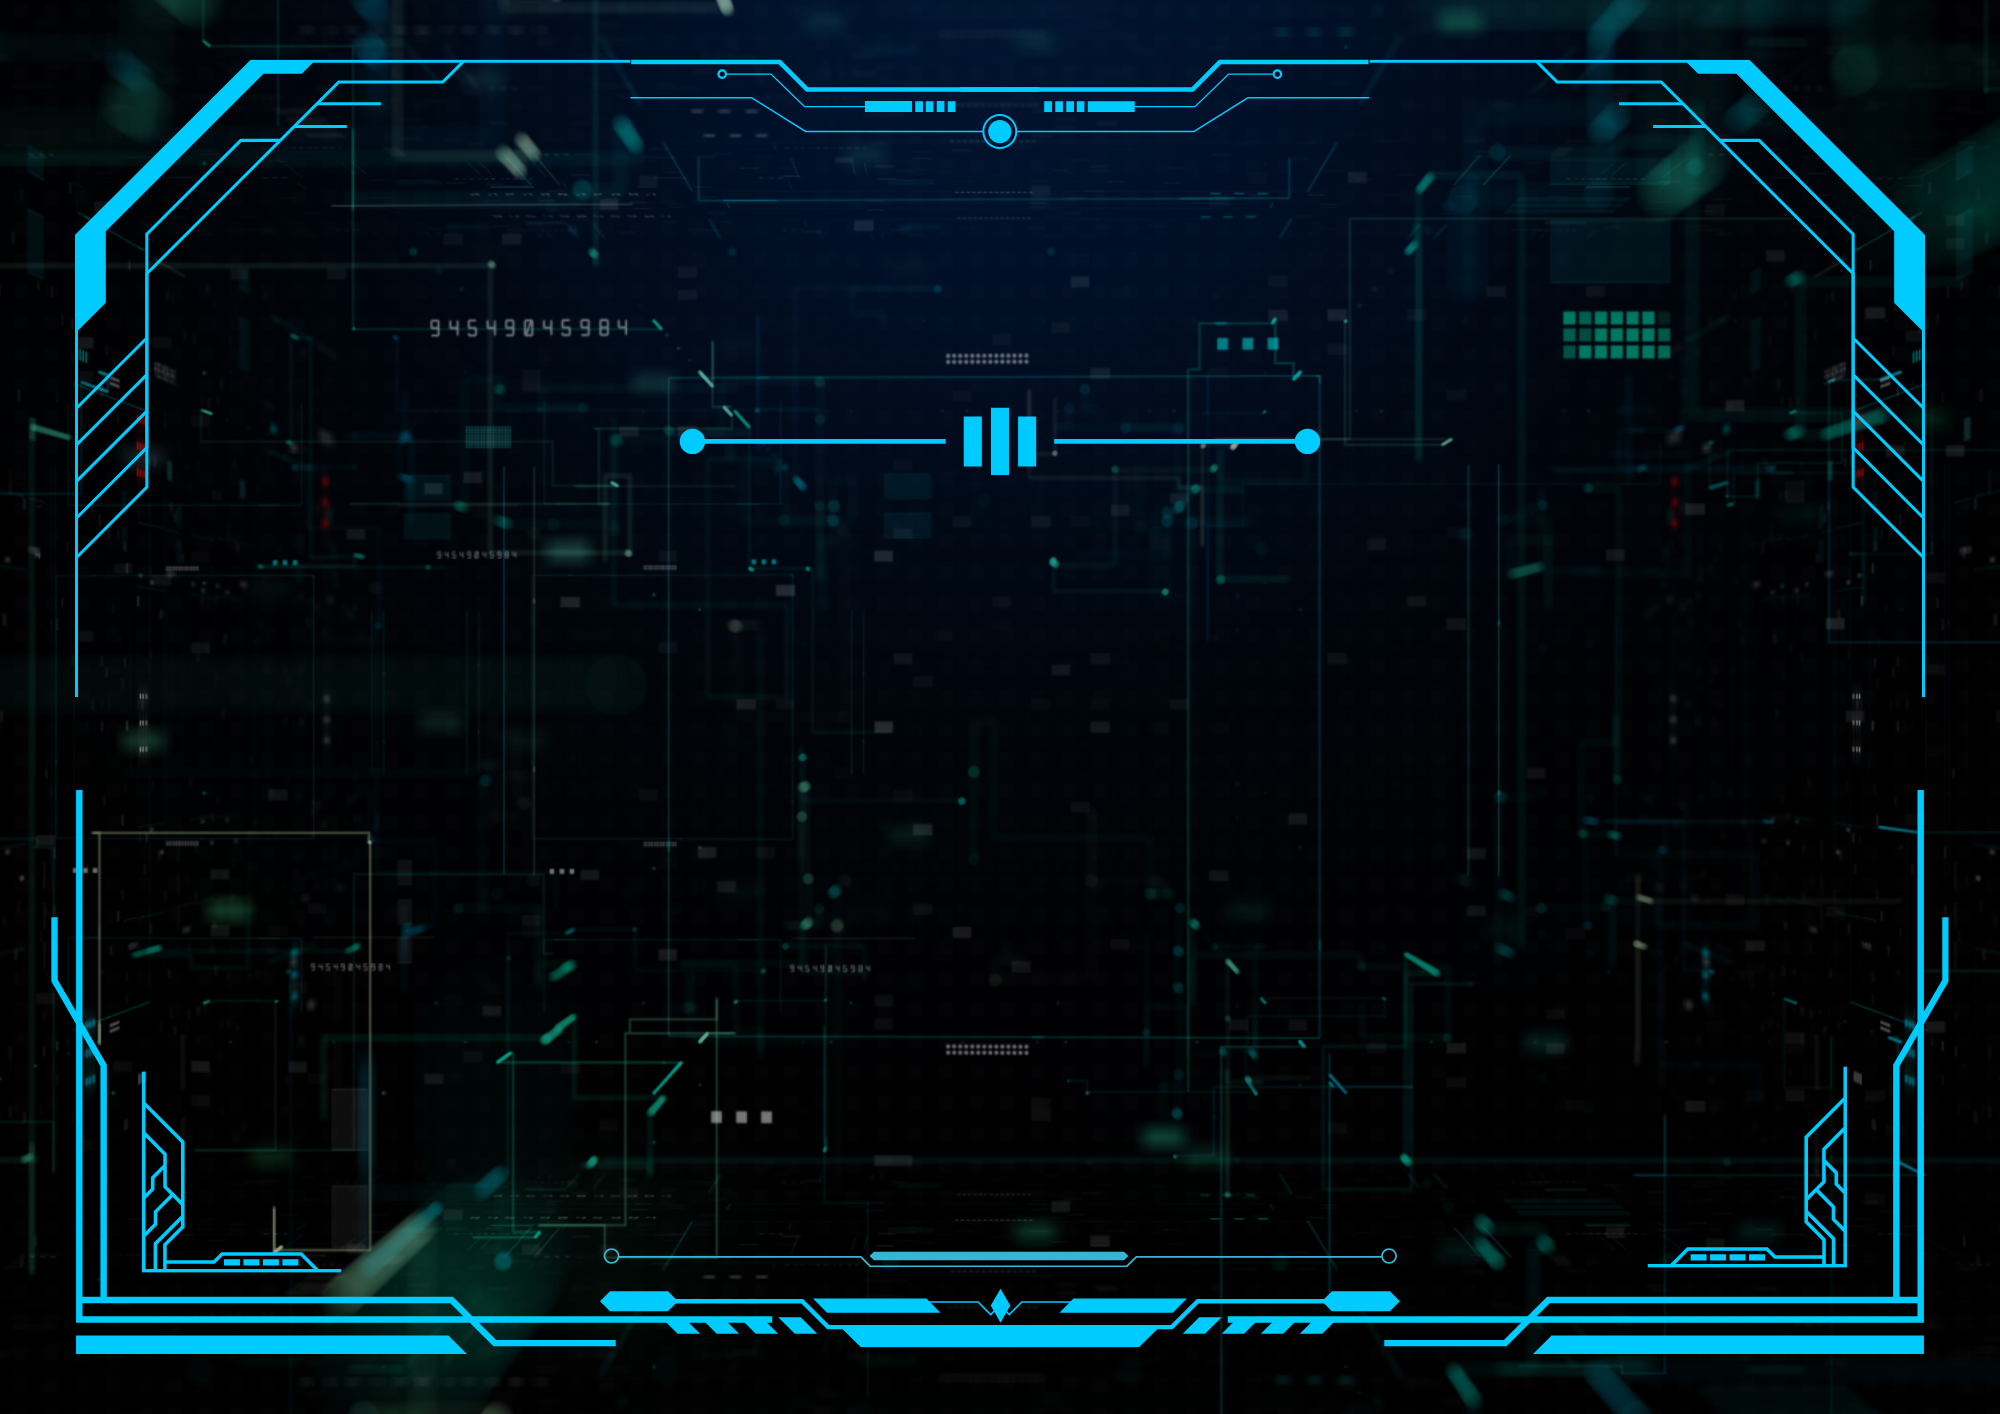
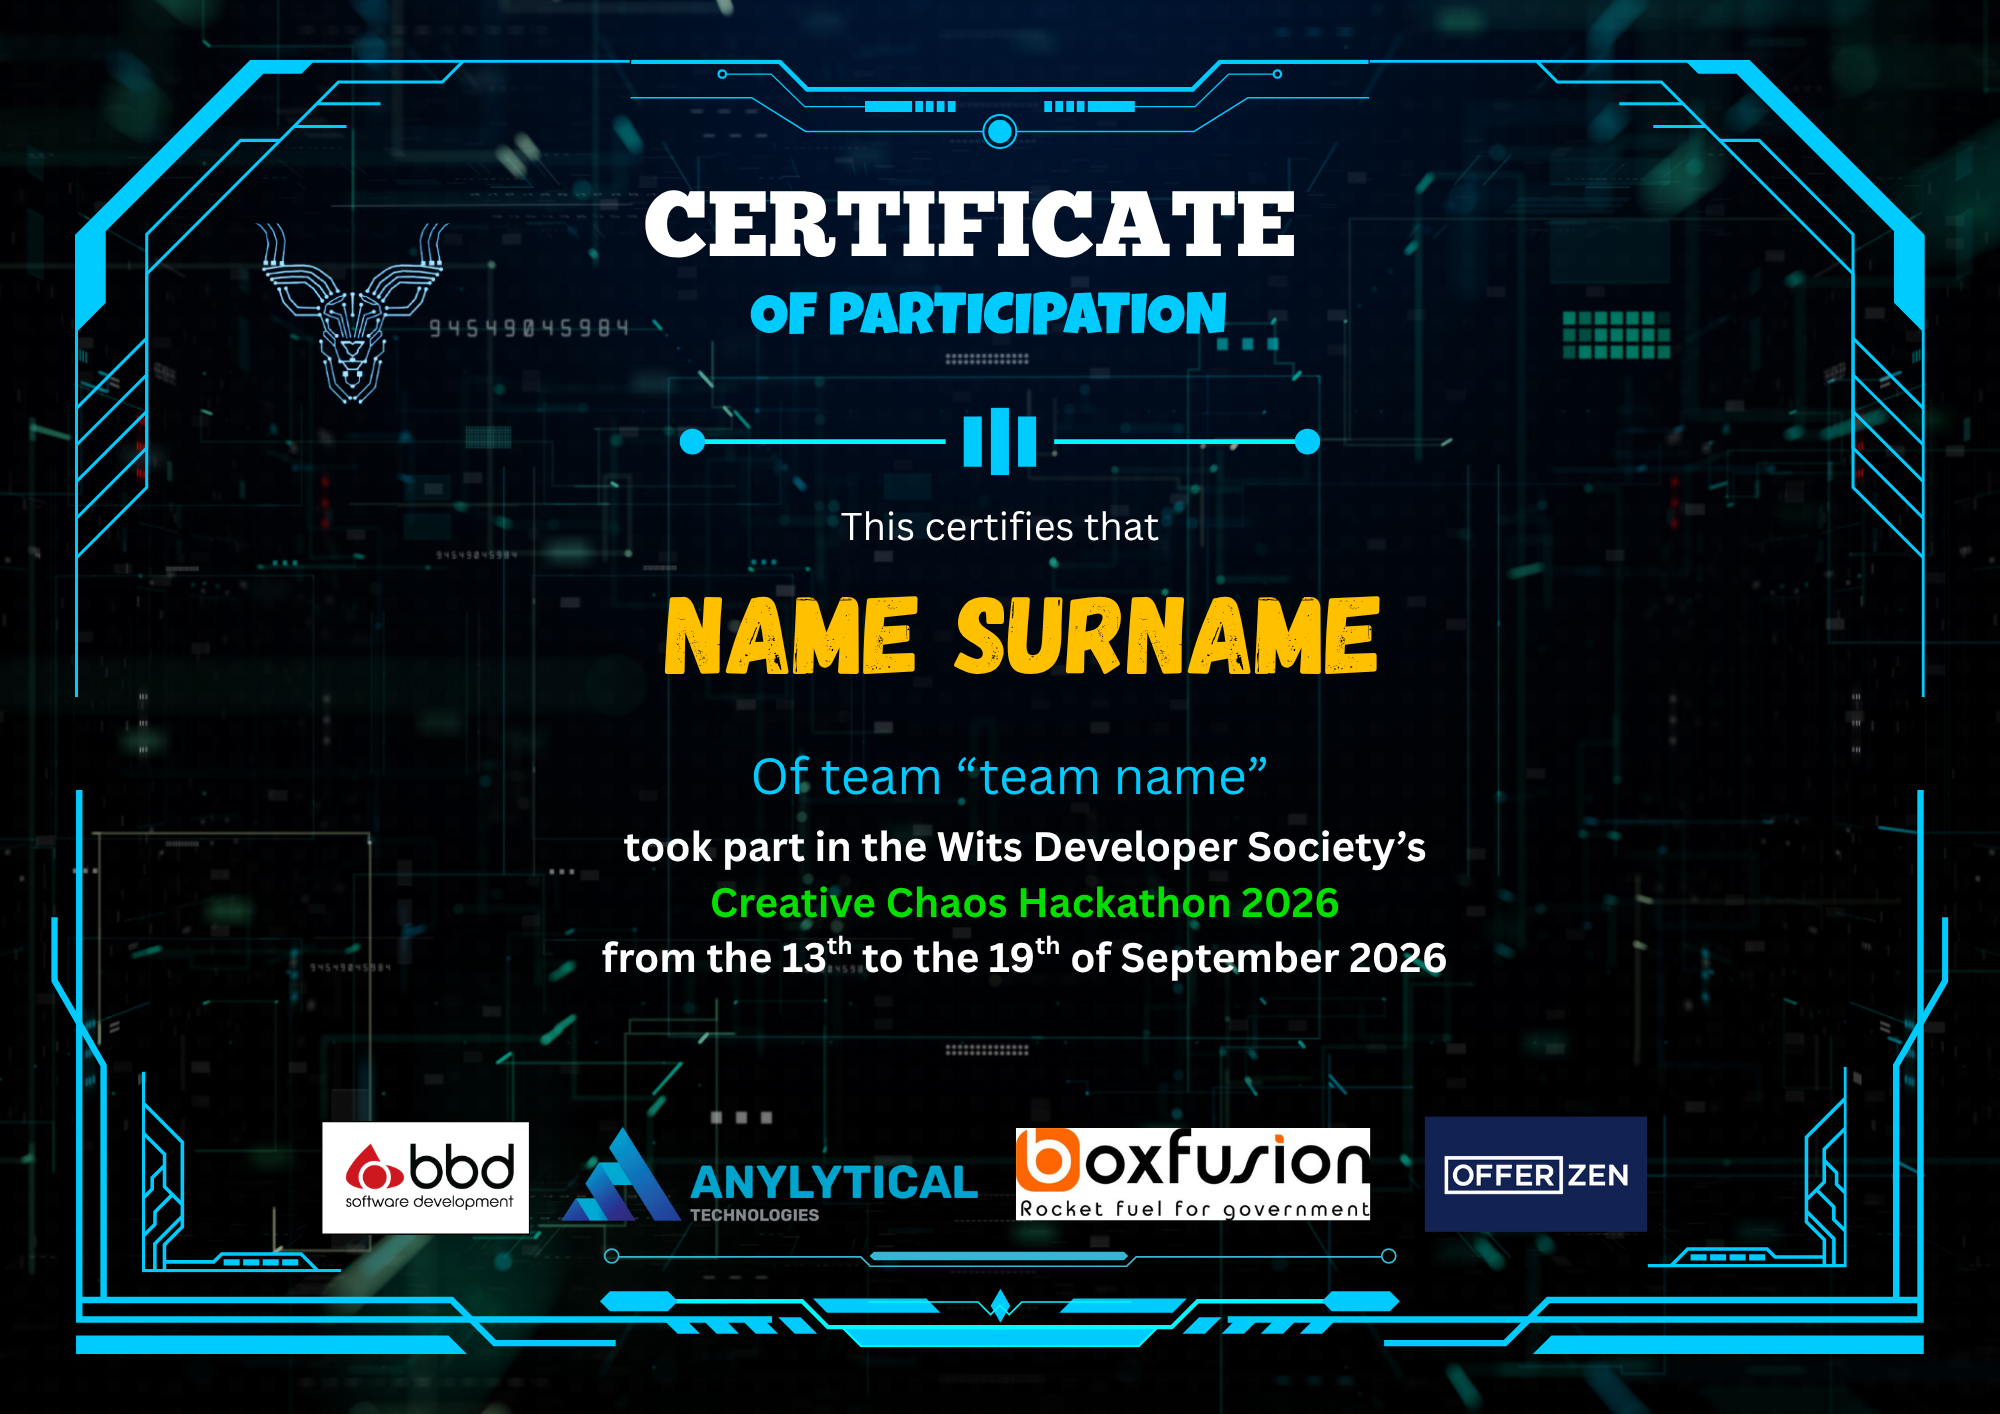
Switch certificate to the new Canva template, overlay real name/team
The new design bakes the whole layout (headline, sponsor row, seal, body
copy) into a single flat PNG with "NAME SURNAME" and "team name" as
placeholder text. Instead of redrawing the layout, we now just paint over
those two spots and draw the real participant name and team name in the
same position/size, keeping everything else pixel-identical to the
template. Long names/team names auto-shrink to fit so nothing overflows.

Tier-based accent coloring on the name (gold/silver/bronze for finalists,
volt for top-10, orange for standard participation) is preserved; the
"CERTIFICATE OF PARTICIPATION" wording itself is now static since the new
template has no room for per-tier subtitle text.

Claude-Session: https://claude.ai/code/session_017X6Dri8x2UtpK7z4zEyKsA

diff --git a/src/lib/certificate.ts b/src/lib/certificate.ts
@@ -106,6 +106,19 @@ function pt(imgX: number, imgY: number) {
   return { x: imgX * SCALE, y: PAGE_H - imgY * SCALE };
 }
 
+// The two placeholder fields baked into the template ("NAME SURNAME" and
+// "team name") measured on the 2000x1414 template PNG (image-space px).
+// ERASE covers the placeholder text (plus a small margin) so it can be
+// painted over before the real value is drawn in the same spot.
+const NAME_ERASE = { x0: 600, y0: 560, x1: 1450, y1: 700 };
+const NAME_CENTER_X = 1022;
+const NAME_BASELINE_Y = 668;
+const TEAM_ERASE = { x0: 650, y0: 745, x1: 1370, y1: 797 };
+const TEAM_CENTER_X = 1010;
+const TEAM_BASELINE_Y = 790;
+// Sampled from the template's background right around both placeholders.
+const ERASE_FILL = rgb(0 / 255, 5 / 255, 11 / 255);
+
 export async function renderCertificatePdf(
   person: Person,
   team: Team | null,
@@ -119,211 +132,61 @@ export async function renderCertificatePdf(
   page.drawImage(bg, { x: 0, y: 0, width: PAGE_W, height: PAGE_H });
 
   const chakraBold = await doc.embedFont(readPublic("fonts", "ChakraPetch-Bold.ttf"), { subset: true });
-  const chakraSemi = await doc.embedFont(readPublic("fonts", "ChakraPetch-SemiBold.ttf"), { subset: true });
   // Rajdhani's glyph tables corrupt under pdf-lib's subsetter (multi-script font) — embed in full.
-  const rajMed = await doc.embedFont(readPublic("fonts", "Rajdhani-Medium.ttf"), { subset: false });
   const rajSemi = await doc.embedFont(readPublic("fonts", "Rajdhani-SemiBold.ttf"), { subset: false });
 
-  const white = hexToRgb(HEX.white);
-  const muted = hexToRgb(HEX.muted);
   const cyan = hexToRgb(HEX.cyan);
   const accent = hexToRgb(tier.accentHex);
 
-  // ---------- header: Wits Developer Society (left) + event mark (right) ----------
-  try {
-    const logoBytes = readPublic("logo-icon.png");
-    const logo = await doc.embedPng(logoBytes);
-    // chip in image-space px, converted to pt at draw time.
-    // Base span was imgX 90-210, imgY 60-180 (120x120, centered at 150,120);
-    // scaled 1.2x (144x144, half-size 72) and shifted 3 line-heights (66px) down.
-    const chipTopLeft = pt(78, 114);
-    const chipBottomRight = pt(222, 258);
-    const chipW = chipBottomRight.x - chipTopLeft.x;
-    const chipH = chipTopLeft.y - chipBottomRight.y;
-    page.drawRectangle({ x: chipTopLeft.x, y: chipBottomRight.y, width: chipW, height: chipH, color: white });
-    const iconPad = chipW * 0.16;
-    const logoDim = logo.scale((chipW - iconPad * 2) / logo.width);
-    page.drawImage(logo, {
-      x: chipTopLeft.x + (chipW - logoDim.width) / 2,
-      y: chipBottomRight.y + (chipH - logoDim.height) / 2,
-      width: logoDim.width,
-      height: logoDim.height,
-    });
-    drawText(page, "WITS DEVELOPER SOCIETY", pt(232, 175), 12.5, chakraSemi, white);
-    drawTracked(page, "ORGANIZED BY", pt(232, 197), 9, rajSemi, cyan, 1.2);
-  } catch {
-    /* logo optional */
-  }
-  drawTextRight(page, "CREATIVE CHAOS HACKATHON 2026", pt(1890, 100), 12, chakraSemi, white);
-  drawTextRight(page, "FINALS DAY · MSL", pt(1890, 122), 9.5, rajSemi, muted);
+  // ---------- name ----------
+  eraseImgRect(page, NAME_ERASE);
+  const namePt = pt(NAME_CENTER_X, NAME_BASELINE_Y);
+  const nameMaxWidthPt = (NAME_ERASE.x1 - NAME_ERASE.x0) * SCALE * 0.94;
+  drawFitCentered(page, person.full_name.toUpperCase(), namePt.x, namePt.y, 31.5, chakraBold, accent, nameMaxWidthPt);
 
-  // ---------- headline ----------
-  const certer = pt(1000, 250);
-  drawTrackedCentered(page, "CERTIFICATE", certer.x, certer.y, 35.5, chakraBold, white, 1.5);
-  const suber = pt(1000, 345);
-  drawTrackedCentered(page, tier.subtitle, suber.x, suber.y, 16.5, chakraSemi, cyan, 4);
-
-  // ---------- body ----------
-  const lead = pt(1000, 515);
-  centerText(page, "This certifies that", lead.x, lead.y, 14, rajMed, muted);
-
-  const namePt = pt(1000, 600);
-  centerText(page, person.full_name.toUpperCase(), namePt.x, namePt.y, 31.5, chakraBold, accent);
-
-  let cursorImgY = 655;
+  // ---------- team ----------
+  eraseImgRect(page, TEAM_ERASE);
   if (team) {
-    const teamPt = pt(1000, cursorImgY);
-    centerText(page, `of team “${team.name}”`, teamPt.x, teamPt.y, 14.5, rajSemi, cyan);
-    cursorImgY += 55;
-  } else {
-    cursorImgY += 10;
-  }
-
-  const bodySentence =
-    person.role === "participant"
-      ? `took part in the Creative Chaos Hackathon 2026 from the 13th to the 19th of September 2026, ${tier.resultLine}.`
-      : `${tier.resultLine} at the Creative Chaos Hackathon 2026, held from the 13th to the 19th of September 2026.`;
-  cursorImgY = wrapCentered(page, bodySentence, 1000, cursorImgY, 620, 13, rajMed, muted, 22);
-
-  // ---------- seal ----------
-  const sealCenterImgY = 890;
-  const sealCenter = pt(1000, sealCenterImgY);
-  const sealR = 30;
-  page.drawCircle({ x: sealCenter.x, y: sealCenter.y, size: sealR, borderColor: cyan, borderWidth: 1, borderOpacity: 0.4 });
-  page.drawCircle({ x: sealCenter.x, y: sealCenter.y, size: sealR - 8, borderColor: cyan, borderWidth: 0.6, borderOpacity: 0.25 });
-  try {
-    const kudu = await doc.embedPng(readPublic("logo-icon.png"));
-    const badgeR = 24;
-    page.drawCircle({ x: sealCenter.x, y: sealCenter.y, size: badgeR, color: white });
-    const kd = kudu.scale((badgeR * 1.5) / kudu.width);
-    page.drawImage(kudu, { x: sealCenter.x - kd.width / 2, y: sealCenter.y - kd.height / 2, width: kd.width, height: kd.height });
-  } catch {
-    /* optional */
-  }
-  const captionPt = pt(1000, 1000);
-  drawTracked(
-    page,
-    "WITS DEVELOPER SOCIETY × CREATIVE CHAOS 2026 ORGANIZING COMMITTEE",
-    { x: captionPt.x - trackedWidth("WITS DEVELOPER SOCIETY × CREATIVE CHAOS 2026 ORGANIZING COMMITTEE", 10, chakraSemi, 0.6) / 2, y: captionPt.y },
-    10,
-    chakraSemi,
-    white,
-    0.6
-  );
-
-  // ---------- sponsors ----------
-  const labelPt = pt(1000, 1045);
-  drawTracked(
-    page,
-    "WITH THANKS TO OUR SPONSORS",
-    { x: labelPt.x - trackedWidth("WITH THANKS TO OUR SPONSORS", 10.5, chakraSemi, 1.2) / 2, y: labelPt.y },
-    10.5,
-    chakraSemi,
-    muted,
-    1.2
-  );
-
-  const sponsorFiles: { file: string; kind: "png" | "jpg" }[] = [
-    { file: "sponsors/bbd.png", kind: "png" },
-    { file: "sponsors/boxfusion.png", kind: "png" },
-    { file: "sponsors/offerzen.jpg", kind: "jpg" },
-    { file: "sponsors/enactus.png", kind: "png" },
-  ];
-  const targetH = 30;
-  const gap = 22;
-  const chipPad = 14;
-  const embedded: { img: any; w: number; h: number }[] = [];
-  for (const s of sponsorFiles) {
-    try {
-      const bytes = readPublic(s.file);
-      const img = s.kind === "png" ? await doc.embedPng(bytes) : await doc.embedJpg(bytes);
-      const scale = targetH / img.height;
-      embedded.push({ img, w: img.width * scale, h: targetH });
-    } catch {
-      /* skip missing sponsor asset */
-    }
-  }
-  const totalW = embedded.reduce((s, e) => s + e.w + chipPad * 2, 0) + gap * Math.max(embedded.length - 1, 0);
-  const rowCenter = pt(1000, 1110);
-  let cursorX = rowCenter.x - totalW / 2;
-  for (const e of embedded) {
-    const chipW = e.w + chipPad * 2;
-    page.drawRectangle({ x: cursorX, y: rowCenter.y - targetH / 2 - 10, width: chipW, height: targetH + 20, color: white });
-    page.drawImage(e.img, { x: cursorX + chipPad, y: rowCenter.y - e.h / 2, width: e.w, height: e.h });
-    cursorX += chipW + gap;
+    const teamPt = pt(TEAM_CENTER_X, TEAM_BASELINE_Y);
+    const teamMaxWidthPt = (TEAM_ERASE.x1 - TEAM_ERASE.x0) * SCALE * 0.94;
+    drawFitCentered(page, `Of team “${team.name}”`, teamPt.x, teamPt.y, 14.5, rajSemi, cyan, teamMaxWidthPt);
   }
 
   return doc.save();
 }
 
-function drawText(page: PDFPage, text: string, p: { x: number; y: number }, size: number, font: PDFFont, color: any) {
-  page.drawText(text, { x: p.x, y: p.y, size, font, color });
+/** Paints over a region of the template (image-space px) with the sampled background fill. */
+function eraseImgRect(page: PDFPage, rect: { x0: number; y0: number; x1: number; y1: number }) {
+  const topLeft = pt(rect.x0, rect.y0);
+  const bottomRight = pt(rect.x1, rect.y1);
+  page.drawRectangle({
+    x: topLeft.x,
+    y: bottomRight.y,
+    width: bottomRight.x - topLeft.x,
+    height: topLeft.y - bottomRight.y,
+    color: ERASE_FILL,
+  });
 }
 
-function drawTextRight(page: PDFPage, text: string, p: { x: number; y: number }, size: number, font: PDFFont, color: any) {
-  const w = font.widthOfTextAtSize(text, size);
-  page.drawText(text, { x: p.x - w, y: p.y, size, font, color });
+/** Centered text that shrinks to fit maxWidthPt, so long names/team names never overflow the template's placeholder box. */
+function drawFitCentered(
+  page: PDFPage,
+  text: string,
+  cx: number,
+  y: number,
+  startSize: number,
+  font: PDFFont,
+  color: any,
+  maxWidthPt: number
+) {
+  let size = startSize;
+  while (font.widthOfTextAtSize(text, size) > maxWidthPt && size > 8) size -= 0.5;
+  centerText(page, text, cx, y, size, font, color);
 }
 
 function centerText(page: PDFPage, text: string, cx: number, y: number, size: number, font: PDFFont, color: any) {
   const w = font.widthOfTextAtSize(text, size);
   page.drawText(text, { x: cx - w / 2, y, size, font, color });
-}
-
-/** Draws text with manual letter-spacing (pdf-lib has no native tracking support). */
-function drawTracked(page: PDFPage, text: string, p: { x: number; y: number }, size: number, font: PDFFont, color: any, tracking: number) {
-  let x = p.x;
-  for (const ch of text) {
-    page.drawText(ch, { x, y: p.y, size, font, color });
-    x += font.widthOfTextAtSize(ch, size) + tracking;
-  }
-}
-
-function trackedWidth(text: string, size: number, font: PDFFont, tracking: number) {
-  let w = 0;
-  for (const ch of text) w += font.widthOfTextAtSize(ch, size) + tracking;
-  return w - tracking;
-}
-
-function drawTrackedCentered(page: PDFPage, text: string, cx: number, y: number, size: number, font: PDFFont, color: any, tracking: number) {
-  const w = trackedWidth(text, size, font, tracking);
-  drawTracked(page, text, { x: cx - w / 2, y }, size, font, color, tracking);
-}
-
-/** Wraps a sentence to fit maxWidthPt (in image-space px), centered, returning the next free image-y. */
-function wrapCentered(
-  page: PDFPage,
-  text: string,
-  centerImgX: number,
-  startImgY: number,
-  maxWidthImg: number,
-  size: number,
-  font: PDFFont,
-  color: any,
-  lineHeightImg: number
-): number {
-  const words = text.split(" ");
-  const maxWidthPt = maxWidthImg * SCALE;
-  const lines: string[] = [];
-  let line = "";
-  for (const word of words) {
-    const test = line ? `${line} ${word}` : word;
-    if (font.widthOfTextAtSize(test, size) > maxWidthPt && line) {
-      lines.push(line);
-      line = word;
-    } else {
-      line = test;
-    }
-  }
-  if (line) lines.push(line);
-
-  let imgY = startImgY;
-  for (const l of lines) {
-    const p = pt(centerImgX, imgY);
-    centerText(page, l, p.x, p.y, size, font, color);
-    imgY += lineHeightImg;
-  }
-  return imgY;
 }
 
 function hexToRgb(hex: string) {
